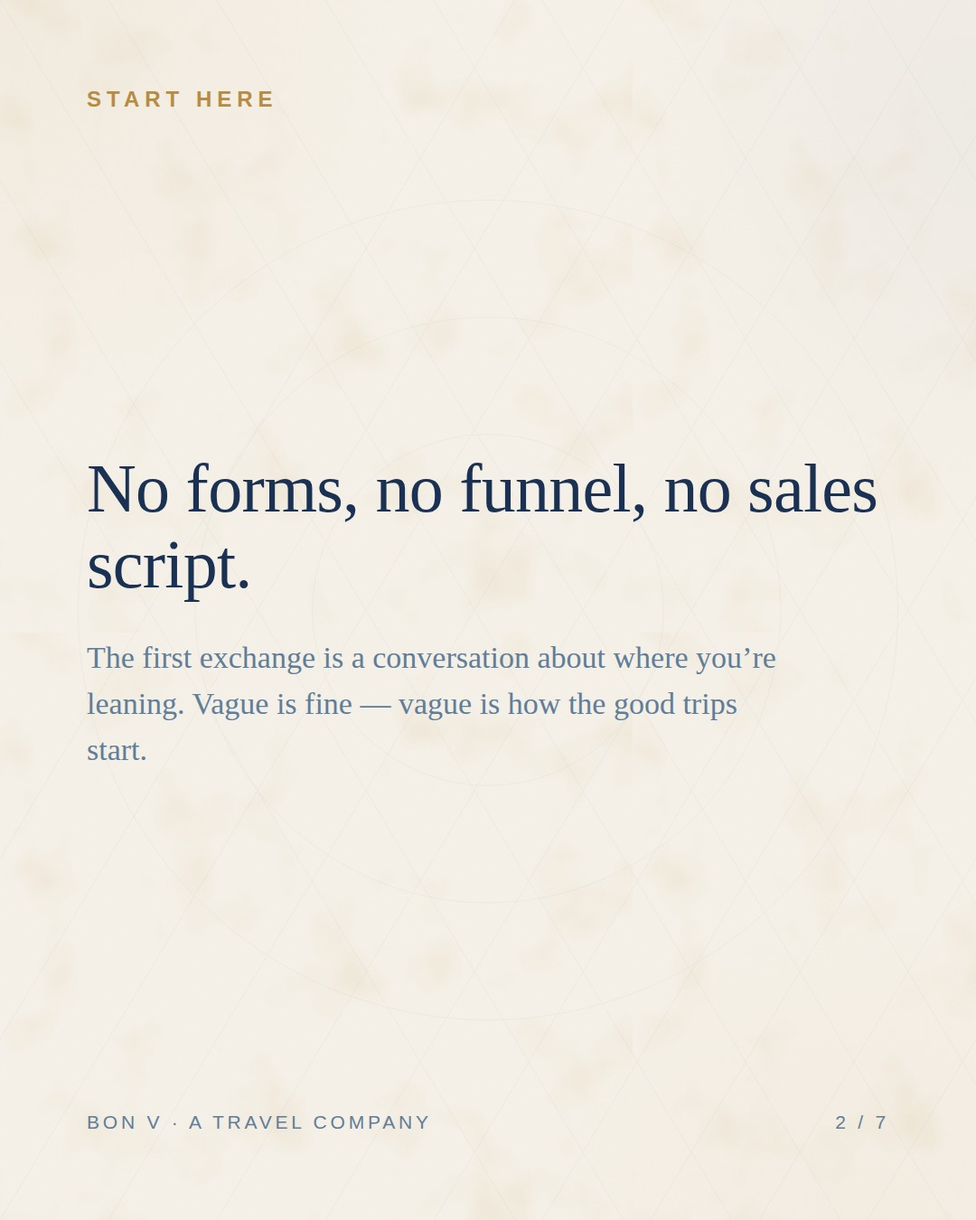
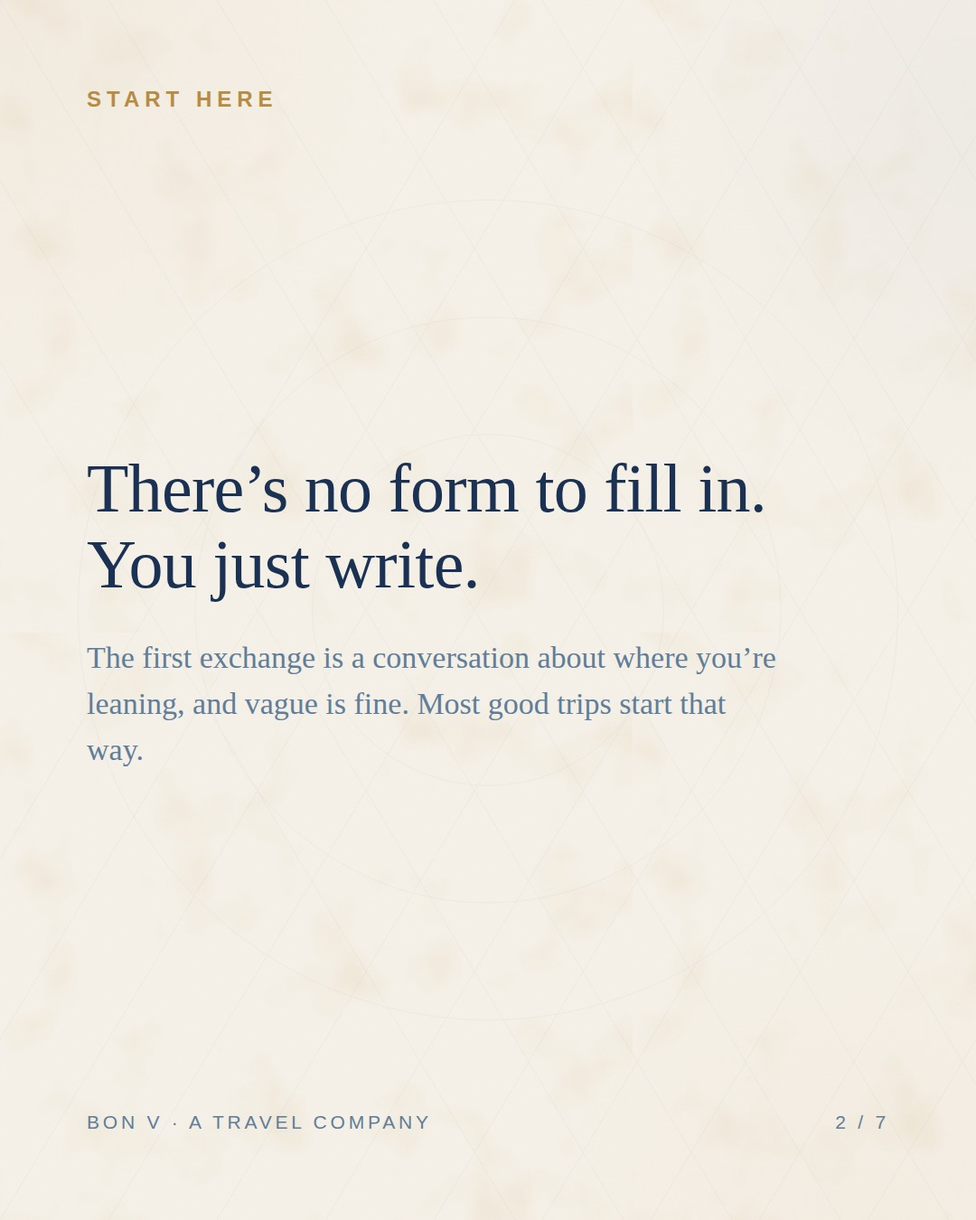
Rework the introduction series copy to read more naturally
Vary the piled-up parallelisms and rules of three across the three
intro decks, thin out the em-dash density toward the site's own
frequency, and re-render all 21 slides. Facts unchanged.

Claude-Session: https://claude.ai/code/session_014KXcvpY2rbbLp147SKyKqA

Changed region(s): [[0.0917, 0.3733, 0.9167, 0.4978], [0.1833, 0.56, 0.7639, 0.5911], [0.0917, 0.5911, 0.1528, 0.6222]]

diff --git a/content/instagram/posts/2026-08-26-what-to-expect-from-me/slides/_preview.html b/content/instagram/posts/2026-08-26-what-to-expect-from-me/slides/_preview.html
@@ -70,7 +70,7 @@
       <div class="kicker">The Advisor's Edit</div>
       <div class="rule" style="margin:28px 0 44px"></div>
       <h1>What to expect when you write to me</h1>
-      <p class="lede" style="margin-top:40px;max-width:88%">The whole arrangement, from first note to flight home — and the parts people don’t expect.</p>
+      <p class="lede" style="margin-top:40px;max-width:88%">How the arrangement works, from your first note to the flight home.</p>
       <div class="spacer"></div>
       <div class="stamp layer"><div class="stamp-in"><div class="stamp-a">Introductions</div><div class="stamp-b">No. II</div></div></div>
       <div class="foot"><span>BON V · A Travel Company</span><span class="index">1 / 7</span></div></div></body></html>
@@ -146,8 +146,8 @@
 </style></head><body><div class="stage"><svg class="chart layer" width="1080" height="1350" viewBox="0 0 1080 1350" xmlns="http://www.w3.org/2000/svg"><line x1="-240" y1="0" x2="570" y2="1350" stroke="#607d99" stroke-width="1"/><line x1="-240" y1="1350" x2="570" y2="0" stroke="#607d99" stroke-width="1"/><line x1="-120" y1="0" x2="690" y2="1350" stroke="#607d99" stroke-width="1"/><line x1="-120" y1="1350" x2="690" y2="0" stroke="#607d99" stroke-width="1"/><line x1="0" y1="0" x2="810" y2="1350" stroke="#607d99" stroke-width="1"/><line x1="0" y1="1350" x2="810" y2="0" stroke="#607d99" stroke-width="1"/><line x1="120" y1="0" x2="930" y2="1350" stroke="#607d99" stroke-width="1"/><line x1="120" y1="1350" x2="930" y2="0" stroke="#607d99" stroke-width="1"/><line x1="240" y1="0" x2="1050" y2="1350" stroke="#607d99" stroke-width="1"/><line x1="240" y1="1350" x2="1050" y2="0" stroke="#607d99" stroke-width="1"/><line x1="360" y1="0" x2="1170" y2="1350" stroke="#607d99" stroke-width="1"/><line x1="360" y1="1350" x2="1170" y2="0" stroke="#607d99" stroke-width="1"/><line x1="480" y1="0" x2="1290" y2="1350" stroke="#607d99" stroke-width="1"/><line x1="480" y1="1350" x2="1290" y2="0" stroke="#607d99" stroke-width="1"/><line x1="600" y1="0" x2="1410" y2="1350" stroke="#607d99" stroke-width="1"/><line x1="600" y1="1350" x2="1410" y2="0" stroke="#607d99" stroke-width="1"/><line x1="720" y1="0" x2="1530" y2="1350" stroke="#607d99" stroke-width="1"/><line x1="720" y1="1350" x2="1530" y2="0" stroke="#607d99" stroke-width="1"/><line x1="840" y1="0" x2="1650" y2="1350" stroke="#607d99" stroke-width="1"/><line x1="840" y1="1350" x2="1650" y2="0" stroke="#607d99" stroke-width="1"/><line x1="960" y1="0" x2="1770" y2="1350" stroke="#607d99" stroke-width="1"/><line x1="960" y1="1350" x2="1770" y2="0" stroke="#607d99" stroke-width="1"/><line x1="1080" y1="0" x2="1890" y2="1350" stroke="#607d99" stroke-width="1"/><line x1="1080" y1="1350" x2="1890" y2="0" stroke="#607d99" stroke-width="1"/><line x1="1200" y1="0" x2="2010" y2="1350" stroke="#607d99" stroke-width="1"/><line x1="1200" y1="1350" x2="2010" y2="0" stroke="#607d99" stroke-width="1"/><line x1="1320" y1="0" x2="2130" y2="1350" stroke="#607d99" stroke-width="1"/><line x1="1320" y1="1350" x2="2130" y2="0" stroke="#607d99" stroke-width="1"/><line x1="1440" y1="0" x2="2250" y2="1350" stroke="#607d99" stroke-width="1"/><line x1="1440" y1="1350" x2="2250" y2="0" stroke="#607d99" stroke-width="1"/><line x1="1560" y1="0" x2="2370" y2="1350" stroke="#607d99" stroke-width="1"/><line x1="1560" y1="1350" x2="2370" y2="0" stroke="#607d99" stroke-width="1"/><circle cx="540" cy="675" r="194.4" fill="none" stroke="#607d99" stroke-width="1"/><circle cx="540" cy="675" r="324" fill="none" stroke="#607d99" stroke-width="1"/><circle cx="540" cy="675" r="453.59999999999997" fill="none" stroke="#607d99" stroke-width="1"/></svg>
       <div class="kicker">Start here</div>
       <div class="spacer"></div>
-      <h2>No forms, no funnel, no sales script.</h2>
-      <p class="body muted" style="margin-top:36px;max-width:86%">The first exchange is a conversation about where you’re leaning. Vague is fine — vague is how the good trips start.</p>
+      <h2>There’s no form to fill in. You just write.</h2>
+      <p class="body muted" style="margin-top:36px;max-width:86%">The first exchange is a conversation about where you’re leaning, and vague is fine. Most good trips start that way.</p>
       <div class="spacer"></div>
       <div class="foot"><span>BON V · A Travel Company</span><span class="index">2 / 7</span></div></div></body></html>
 <hr>
@@ -231,16 +231,16 @@
       <div>
         <div class="item">
             <div class="num">01</div>
-            <div><div class="head">You write</div><div class="sub">A region, a month, an occasion, a ship you half remember. That’s plenty to start with.</div></div>
+            <div><div class="head">You write</div><div class="sub">A region, a month, an anniversary you want to do properly. That’s plenty.</div></div>
           </div><div class="item">
             <div class="num">02</div>
-            <div><div class="head">I edit</div><div class="sub">A hundred possible sailings down to three worth your time, with a reason attached to each.</div></div>
+            <div><div class="head">I edit</div><div class="sub">Any search engine can find a hundred sailings. I’ll send you the three I’d actually book, and why.</div></div>
           </div><div class="item">
             <div class="num">03</div>
-            <div><div class="head">We settle it</div><div class="sub">Ship, cabin, deck, dining, the negotiated fare. You decide; I handle every booking detail.</div></div>
+            <div><div class="head">We settle it</div><div class="sub">Ship, cabin, dining time, the fare. You make the calls and I do the paperwork.</div></div>
           </div><div class="item">
             <div class="num">04</div>
-            <div><div class="head">I stay on it</div><div class="sub">The fare watched until you sail, the papers checked, and a person who answers if plans wobble.</div></div>
+            <div><div class="head">I stay on it</div><div class="sub">I keep watching the fare after you book, and if something goes sideways mid-trip you call me.</div></div>
           </div>
       </div>
       <div class="spacer"></div>
@@ -331,7 +331,7 @@
       <div class="rule" style="margin:34px 0 50px"></div>
       <div class="cols">
         <div class="col col-a"><div class="col-label">Not this</div><ul><li>A questionnaire</li><li>A hundred options</li><li>A marked-up fare</li><li>A rotating cast</li></ul></div>
-        <div class="col col-b"><div class="col-label">Expect this</div><ul><li>A conversation</li><li>Three worth your time</li><li>The fare, negotiated</li><li>One name, start to home</li></ul></div>
+        <div class="col col-b"><div class="col-label">Expect this</div><ul><li>A conversation</li><li>Three good options</li><li>A fare I negotiated</li><li>Me, the whole way</li></ul></div>
       </div>
       <div class="spacer"></div>
       <div class="foot"><span>BON V · A Travel Company</span><span class="index">4 / 7</span></div></div></body></html>
@@ -405,10 +405,10 @@
   .stamp-b { font-family:'Liberation Sans', 'DejaVu Sans', Helvetica, Arial, sans-serif; font-size:24px; letter-spacing:0.2em; text-transform:uppercase; color:#a97f39; white-space:nowrap; margin-top:3px; }
   
 </style></head><body><div class="stage"><svg class="chart layer" width="1080" height="1350" viewBox="0 0 1080 1350" xmlns="http://www.w3.org/2000/svg"><line x1="-240" y1="0" x2="570" y2="1350" stroke="#607d99" stroke-width="1"/><line x1="-240" y1="1350" x2="570" y2="0" stroke="#607d99" stroke-width="1"/><line x1="-120" y1="0" x2="690" y2="1350" stroke="#607d99" stroke-width="1"/><line x1="-120" y1="1350" x2="690" y2="0" stroke="#607d99" stroke-width="1"/><line x1="0" y1="0" x2="810" y2="1350" stroke="#607d99" stroke-width="1"/><line x1="0" y1="1350" x2="810" y2="0" stroke="#607d99" stroke-width="1"/><line x1="120" y1="0" x2="930" y2="1350" stroke="#607d99" stroke-width="1"/><line x1="120" y1="1350" x2="930" y2="0" stroke="#607d99" stroke-width="1"/><line x1="240" y1="0" x2="1050" y2="1350" stroke="#607d99" stroke-width="1"/><line x1="240" y1="1350" x2="1050" y2="0" stroke="#607d99" stroke-width="1"/><line x1="360" y1="0" x2="1170" y2="1350" stroke="#607d99" stroke-width="1"/><line x1="360" y1="1350" x2="1170" y2="0" stroke="#607d99" stroke-width="1"/><line x1="480" y1="0" x2="1290" y2="1350" stroke="#607d99" stroke-width="1"/><line x1="480" y1="1350" x2="1290" y2="0" stroke="#607d99" stroke-width="1"/><line x1="600" y1="0" x2="1410" y2="1350" stroke="#607d99" stroke-width="1"/><line x1="600" y1="1350" x2="1410" y2="0" stroke="#607d99" stroke-width="1"/><line x1="720" y1="0" x2="1530" y2="1350" stroke="#607d99" stroke-width="1"/><line x1="720" y1="1350" x2="1530" y2="0" stroke="#607d99" stroke-width="1"/><line x1="840" y1="0" x2="1650" y2="1350" stroke="#607d99" stroke-width="1"/><line x1="840" y1="1350" x2="1650" y2="0" stroke="#607d99" stroke-width="1"/><line x1="960" y1="0" x2="1770" y2="1350" stroke="#607d99" stroke-width="1"/><line x1="960" y1="1350" x2="1770" y2="0" stroke="#607d99" stroke-width="1"/><line x1="1080" y1="0" x2="1890" y2="1350" stroke="#607d99" stroke-width="1"/><line x1="1080" y1="1350" x2="1890" y2="0" stroke="#607d99" stroke-width="1"/><line x1="1200" y1="0" x2="2010" y2="1350" stroke="#607d99" stroke-width="1"/><line x1="1200" y1="1350" x2="2010" y2="0" stroke="#607d99" stroke-width="1"/><line x1="1320" y1="0" x2="2130" y2="1350" stroke="#607d99" stroke-width="1"/><line x1="1320" y1="1350" x2="2130" y2="0" stroke="#607d99" stroke-width="1"/><line x1="1440" y1="0" x2="2250" y2="1350" stroke="#607d99" stroke-width="1"/><line x1="1440" y1="1350" x2="2250" y2="0" stroke="#607d99" stroke-width="1"/><line x1="1560" y1="0" x2="2370" y2="1350" stroke="#607d99" stroke-width="1"/><line x1="1560" y1="1350" x2="2370" y2="0" stroke="#607d99" stroke-width="1"/><circle cx="540" cy="675" r="194.4" fill="none" stroke="#607d99" stroke-width="1"/><circle cx="540" cy="675" r="324" fill="none" stroke="#607d99" stroke-width="1"/><circle cx="540" cy="675" r="453.59999999999997" fill="none" stroke="#607d99" stroke-width="1"/></svg>
-      <div class="kicker">The habit</div>
+      <div class="kicker">Fair warning</div>
       <div class="spacer"></div>
-      <h2>Expect candour before commerce.</h2>
-      <p class="body muted" style="margin-top:36px;max-width:86%">If a celebrated sailing is wrong for you, I’ll say so before we ever speak about fares — that is most of the job.</p>
+      <h2>If a celebrated itinerary is wrong for you, I’ll say so.</h2>
+      <p class="body muted" style="margin-top:36px;max-width:86%">Talking someone out of the wrong ship is half the job. The fare conversation only starts once the ship is right.</p>
       <div class="spacer"></div>
       <div class="foot"><span>BON V · A Travel Company</span><span class="index">5 / 7</span></div></div></body></html>
 <hr>
@@ -487,7 +487,7 @@
 </style></head><body><div class="stage"><svg class="chart layer" width="1080" height="1350" viewBox="0 0 1080 1350" xmlns="http://www.w3.org/2000/svg"><line x1="-240" y1="0" x2="570" y2="1350" stroke="#607d99" stroke-width="1"/><line x1="-240" y1="1350" x2="570" y2="0" stroke="#607d99" stroke-width="1"/><line x1="-120" y1="0" x2="690" y2="1350" stroke="#607d99" stroke-width="1"/><line x1="-120" y1="1350" x2="690" y2="0" stroke="#607d99" stroke-width="1"/><line x1="0" y1="0" x2="810" y2="1350" stroke="#607d99" stroke-width="1"/><line x1="0" y1="1350" x2="810" y2="0" stroke="#607d99" stroke-width="1"/><line x1="120" y1="0" x2="930" y2="1350" stroke="#607d99" stroke-width="1"/><line x1="120" y1="1350" x2="930" y2="0" stroke="#607d99" stroke-width="1"/><line x1="240" y1="0" x2="1050" y2="1350" stroke="#607d99" stroke-width="1"/><line x1="240" y1="1350" x2="1050" y2="0" stroke="#607d99" stroke-width="1"/><line x1="360" y1="0" x2="1170" y2="1350" stroke="#607d99" stroke-width="1"/><line x1="360" y1="1350" x2="1170" y2="0" stroke="#607d99" stroke-width="1"/><line x1="480" y1="0" x2="1290" y2="1350" stroke="#607d99" stroke-width="1"/><line x1="480" y1="1350" x2="1290" y2="0" stroke="#607d99" stroke-width="1"/><line x1="600" y1="0" x2="1410" y2="1350" stroke="#607d99" stroke-width="1"/><line x1="600" y1="1350" x2="1410" y2="0" stroke="#607d99" stroke-width="1"/><line x1="720" y1="0" x2="1530" y2="1350" stroke="#607d99" stroke-width="1"/><line x1="720" y1="1350" x2="1530" y2="0" stroke="#607d99" stroke-width="1"/><line x1="840" y1="0" x2="1650" y2="1350" stroke="#607d99" stroke-width="1"/><line x1="840" y1="1350" x2="1650" y2="0" stroke="#607d99" stroke-width="1"/><line x1="960" y1="0" x2="1770" y2="1350" stroke="#607d99" stroke-width="1"/><line x1="960" y1="1350" x2="1770" y2="0" stroke="#607d99" stroke-width="1"/><line x1="1080" y1="0" x2="1890" y2="1350" stroke="#607d99" stroke-width="1"/><line x1="1080" y1="1350" x2="1890" y2="0" stroke="#607d99" stroke-width="1"/><line x1="1200" y1="0" x2="2010" y2="1350" stroke="#607d99" stroke-width="1"/><line x1="1200" y1="1350" x2="2010" y2="0" stroke="#607d99" stroke-width="1"/><line x1="1320" y1="0" x2="2130" y2="1350" stroke="#607d99" stroke-width="1"/><line x1="1320" y1="1350" x2="2130" y2="0" stroke="#607d99" stroke-width="1"/><line x1="1440" y1="0" x2="2250" y2="1350" stroke="#607d99" stroke-width="1"/><line x1="1440" y1="1350" x2="2250" y2="0" stroke="#607d99" stroke-width="1"/><line x1="1560" y1="0" x2="2370" y2="1350" stroke="#607d99" stroke-width="1"/><line x1="1560" y1="1350" x2="2370" y2="0" stroke="#607d99" stroke-width="1"/><circle cx="540" cy="675" r="194.4" fill="none" stroke="#607d99" stroke-width="1"/><circle cx="540" cy="675" r="324" fill="none" stroke="#607d99" stroke-width="1"/><circle cx="540" cy="675" r="453.59999999999997" fill="none" stroke="#607d99" stroke-width="1"/></svg>
       <div class="spacer"></div>
       <div class="mark">&ldquo;</div>
-      <div class="q">The line pays me after you sail. Your fare is the same or better — and my services are complimentary.</div>
+      <div class="q">The line pays me after you sail. Your fare is the same or better, and my services are complimentary.</div>
       <div class="cite">Jordan Yates · Luxury Voyage Advisor</div>
       <div class="spacer"></div>
       <div class="foot"><span>BON V · A Travel Company</span><span class="index">6 / 7</span></div></div></body></html>
@@ -566,7 +566,7 @@
       <div class="kicker">One ask</div>
       <div class="spacer"></div>
       <h2 style="font-size:66px">Send this to the person you’d sail with</h2>
-      <p class="lede" style="margin-top:36px;max-width:90%">Most voyages begin as a conversation between two people. When yours does, this is what writing to me starts.</p>
+      <p class="lede" style="margin-top:36px;max-width:90%">Most trips start as a conversation between two people. When yours does, you know where I am.</p>
       <div class="handle">@bonvtravel · link in bio</div>
       <div class="spacer"></div>
       <div class="rule-wide" style="margin-bottom:30px"></div>

diff --git a/content/instagram/posts/2026-08-27-fifteen-years-of-kept-notes/slides/_preview.html b/content/instagram/posts/2026-08-27-fifteen-years-of-kept-notes/slides/_preview.html
@@ -70,7 +70,7 @@
       <div class="kicker">The Advisor's Edit</div>
       <div class="rule" style="margin:28px 0 44px"></div>
       <h1>Fifteen years of kept notes</h1>
-      <p class="lede" style="margin-top:40px;max-width:88%">Why every sailing since 2011 is written down — and what the record does for yours.</p>
+      <p class="lede" style="margin-top:40px;max-width:88%">I’ve written down every sailing since 2011. This is what the record does for yours.</p>
       <div class="spacer"></div>
       <div class="stamp layer"><div class="stamp-in"><div class="stamp-a">Introductions</div><div class="stamp-b">No. III</div></div></div>
       <div class="foot"><span>BON V · A Travel Company</span><span class="index">1 / 7</span></div></div></body></html>
@@ -147,7 +147,7 @@
       <div class="kicker">The method</div>
       <div class="spacer"></div>
       <h2>Memory flatters. The notebook doesn’t.</h2>
-      <p class="body muted" style="margin-top:36px;max-width:86%">Sailings, ship visits and port days since 2011, written down at the time — not remembered fondly later.</p>
+      <p class="body muted" style="margin-top:36px;max-width:86%">Every sailing and ship visit since 2011 went into the notes the same day, before hindsight could tidy it up.</p>
       <div class="spacer"></div>
       <div class="foot"><span>BON V · A Travel Company</span><span class="index">2 / 7</span></div></div></body></html>
 <hr>
@@ -231,13 +231,13 @@
       <div>
         <div class="item">
             <div class="num">01</div>
-            <div><div class="head">Ships, walked</div><div class="sub">Which decks carry noise, which cabins sit beneath the pool deck, which suites earn their fare.</div></div>
+            <div><div class="head">The ships</div><div class="sub">Where the noise travels, which cabins sit under the pool deck, and which suites are worth it.</div></div>
           </div><div class="item">
             <div class="num">02</div>
-            <div><div class="head">Ports, timed</div><div class="sub">How long the tender really takes, when the crowds land, when the light is worth the detour.</div></div>
+            <div><div class="head">The ports</div><div class="sub">How long the tender actually takes, and what time the crowds turn up.</div></div>
           </div><div class="item">
             <div class="num">03</div>
-            <div><div class="head">Fares, tracked</div><div class="sub">What a sailing was published at, what it quietly dropped to, and when in the year that happens.</div></div>
+            <div><div class="head">The fares</div><div class="sub">What a sailing listed at, what it later sold for, and roughly when in the year the drop comes.</div></div>
           </div>
       </div>
       <div class="spacer"></div>
@@ -431,7 +431,7 @@
       <div class="kicker">In practice</div>
       <h2 style="font-size:58px;margin-top:24px">What the record decides</h2>
       <div class="rule" style="margin:34px 0 40px"></div>
-      <div><div class="row"><div class="coord">The ship</div><div class="val">Chosen against its sisters and its refit date, not its brochure.</div></div><div class="row"><div class="coord">The cabin</div><div class="val">Picked off the deck plan, not the category name.</div></div><div class="row"><div class="coord">The season</div><div class="val">Booked for light and crowds, not the headline fare.</div></div><div class="row"><div class="coord">The fare</div><div class="val">Negotiated against what it actually sells for, not what it lists at.</div></div></div>
+      <div><div class="row"><div class="coord">The ship</div><div class="val">I compare it with its sister ships and check when it was last refitted.</div></div><div class="row"><div class="coord">The cabin</div><div class="val">Picked off the deck plan, down to what’s above and below it.</div></div><div class="row"><div class="coord">The season</div><div class="val">Timed for the light and for how many other ships will be in port that day.</div></div><div class="row"><div class="coord">The fare</div><div class="val">Negotiated from what sailings like it have actually sold for.</div></div></div>
       <div class="spacer"></div>
       <div class="foot"><span>BON V · A Travel Company</span><span class="index">5 / 7</span></div></div></body></html>
 <hr>
@@ -506,8 +506,8 @@
 </style></head><body><div class="stage"><svg class="chart layer" width="1080" height="1350" viewBox="0 0 1080 1350" xmlns="http://www.w3.org/2000/svg"><line x1="-240" y1="0" x2="570" y2="1350" stroke="#607d99" stroke-width="1"/><line x1="-240" y1="1350" x2="570" y2="0" stroke="#607d99" stroke-width="1"/><line x1="-120" y1="0" x2="690" y2="1350" stroke="#607d99" stroke-width="1"/><line x1="-120" y1="1350" x2="690" y2="0" stroke="#607d99" stroke-width="1"/><line x1="0" y1="0" x2="810" y2="1350" stroke="#607d99" stroke-width="1"/><line x1="0" y1="1350" x2="810" y2="0" stroke="#607d99" stroke-width="1"/><line x1="120" y1="0" x2="930" y2="1350" stroke="#607d99" stroke-width="1"/><line x1="120" y1="1350" x2="930" y2="0" stroke="#607d99" stroke-width="1"/><line x1="240" y1="0" x2="1050" y2="1350" stroke="#607d99" stroke-width="1"/><line x1="240" y1="1350" x2="1050" y2="0" stroke="#607d99" stroke-width="1"/><line x1="360" y1="0" x2="1170" y2="1350" stroke="#607d99" stroke-width="1"/><line x1="360" y1="1350" x2="1170" y2="0" stroke="#607d99" stroke-width="1"/><line x1="480" y1="0" x2="1290" y2="1350" stroke="#607d99" stroke-width="1"/><line x1="480" y1="1350" x2="1290" y2="0" stroke="#607d99" stroke-width="1"/><line x1="600" y1="0" x2="1410" y2="1350" stroke="#607d99" stroke-width="1"/><line x1="600" y1="1350" x2="1410" y2="0" stroke="#607d99" stroke-width="1"/><line x1="720" y1="0" x2="1530" y2="1350" stroke="#607d99" stroke-width="1"/><line x1="720" y1="1350" x2="1530" y2="0" stroke="#607d99" stroke-width="1"/><line x1="840" y1="0" x2="1650" y2="1350" stroke="#607d99" stroke-width="1"/><line x1="840" y1="1350" x2="1650" y2="0" stroke="#607d99" stroke-width="1"/><line x1="960" y1="0" x2="1770" y2="1350" stroke="#607d99" stroke-width="1"/><line x1="960" y1="1350" x2="1770" y2="0" stroke="#607d99" stroke-width="1"/><line x1="1080" y1="0" x2="1890" y2="1350" stroke="#607d99" stroke-width="1"/><line x1="1080" y1="1350" x2="1890" y2="0" stroke="#607d99" stroke-width="1"/><line x1="1200" y1="0" x2="2010" y2="1350" stroke="#607d99" stroke-width="1"/><line x1="1200" y1="1350" x2="2010" y2="0" stroke="#607d99" stroke-width="1"/><line x1="1320" y1="0" x2="2130" y2="1350" stroke="#607d99" stroke-width="1"/><line x1="1320" y1="1350" x2="2130" y2="0" stroke="#607d99" stroke-width="1"/><line x1="1440" y1="0" x2="2250" y2="1350" stroke="#607d99" stroke-width="1"/><line x1="1440" y1="1350" x2="2250" y2="0" stroke="#607d99" stroke-width="1"/><line x1="1560" y1="0" x2="2370" y2="1350" stroke="#607d99" stroke-width="1"/><line x1="1560" y1="1350" x2="2370" y2="0" stroke="#607d99" stroke-width="1"/><circle cx="540" cy="675" r="194.4" fill="none" stroke="#607d99" stroke-width="1"/><circle cx="540" cy="675" r="324" fill="none" stroke="#607d99" stroke-width="1"/><circle cx="540" cy="675" r="453.59999999999997" fill="none" stroke="#607d99" stroke-width="1"/></svg>
       <div class="kicker">The point</div>
       <div class="spacer"></div>
-      <h2>Experience isn’t the years. It’s what you kept from them.</h2>
-      <p class="body muted" style="margin-top:36px;max-width:86%">Plenty of people have sailed for fifteen years. The difference is a written record — and one person reading it on your behalf.</p>
+      <h2>Plenty of people have sailed for fifteen years.</h2>
+      <p class="body muted" style="margin-top:36px;max-width:86%">Very few wrote any of it down. The notebook is what you get when you write to me.</p>
       <div class="spacer"></div>
       <div class="foot"><span>BON V · A Travel Company</span><span class="index">6 / 7</span></div></div></body></html>
 <hr>
@@ -585,7 +585,7 @@
       <div class="kicker">One ask</div>
       <div class="spacer"></div>
       <h2 style="font-size:66px">Name a sailing you’re weighing up</h2>
-      <p class="lede" style="margin-top:36px;max-width:90%">Send it in a DM — ship and month is enough. If the notebook has an opinion, you’ll get its two-line verdict, candid and free of charge.</p>
+      <p class="lede" style="margin-top:36px;max-width:90%">Ship and month is enough. Send it in a DM, and if the notebook has an opinion I’ll give you the two-line verdict at no charge.</p>
       <div class="handle">@bonvtravel · link in bio</div>
       <div class="spacer"></div>
       <div class="rule-wide" style="margin-bottom:30px"></div>

diff --git a/content/instagram/posts/2026-08-25-the-name-on-every-quote/slides/_preview.html b/content/instagram/posts/2026-08-25-the-name-on-every-quote/slides/_preview.html
@@ -181,7 +181,7 @@
       <div class="kicker">Who this is</div>
       <div class="spacer"></div>
       <h2>Behind BON V is one advisor, not an agency floor.</h2>
-      <p class="body muted" style="margin-top:36px;max-width:86%">One person, one file, and a direct line that gets answered — from your first note to the flight home.</p>
+      <p class="body muted" style="margin-top:36px;max-width:86%">You write to me, you book with me, and when something needs fixing mid-trip it’s still me. The number on the site rings at this desk.</p>
       <div class="spacer"></div>
       <div class="foot"><span>BON V · A Travel Company</span><span class="index">2 / 7</span></div></div></body></html>
 <hr>
@@ -265,13 +265,13 @@
       <div>
         <div class="item">
             <div class="num">01</div>
-            <div><div class="head">Cruise, only</div><div class="sub">Ocean, river and expedition — ships are the whole trade here, not a sideline of general travel.</div></div>
+            <div><div class="head">Cruise, only</div><div class="sub">Ocean, river and expedition. Ships are the whole business at this desk.</div></div>
           </div><div class="item">
             <div class="num">02</div>
-            <div><div class="head">A Virtuoso practice</div><div class="sub">In partnership with Luxury Cruise Connections — consortium access and negotiated fares.</div></div>
+            <div><div class="head">A Virtuoso practice</div><div class="sub">Run in partnership with Luxury Cruise Connections, which is where the negotiated fares come from.</div></div>
           </div><div class="item">
             <div class="num">03</div>
-            <div><div class="head">At this since 2011</div><div class="sub">Years of sailings, ship visits and kept notes, every one of them working on your shortlist.</div></div>
+            <div><div class="head">At this since 2011</div><div class="sub">Fifteen years of sailings, ship visits and kept notes. The notes matter most.</div></div>
           </div>
       </div>
       <div class="spacer"></div>
@@ -358,11 +358,11 @@
       .col-a li { color:#607d99; }
 </style></head><body><div class="stage"><svg class="chart layer" width="1080" height="1350" viewBox="0 0 1080 1350" xmlns="http://www.w3.org/2000/svg"><line x1="-240" y1="0" x2="570" y2="1350" stroke="#607d99" stroke-width="1"/><line x1="-240" y1="1350" x2="570" y2="0" stroke="#607d99" stroke-width="1"/><line x1="-120" y1="0" x2="690" y2="1350" stroke="#607d99" stroke-width="1"/><line x1="-120" y1="1350" x2="690" y2="0" stroke="#607d99" stroke-width="1"/><line x1="0" y1="0" x2="810" y2="1350" stroke="#607d99" stroke-width="1"/><line x1="0" y1="1350" x2="810" y2="0" stroke="#607d99" stroke-width="1"/><line x1="120" y1="0" x2="930" y2="1350" stroke="#607d99" stroke-width="1"/><line x1="120" y1="1350" x2="930" y2="0" stroke="#607d99" stroke-width="1"/><line x1="240" y1="0" x2="1050" y2="1350" stroke="#607d99" stroke-width="1"/><line x1="240" y1="1350" x2="1050" y2="0" stroke="#607d99" stroke-width="1"/><line x1="360" y1="0" x2="1170" y2="1350" stroke="#607d99" stroke-width="1"/><line x1="360" y1="1350" x2="1170" y2="0" stroke="#607d99" stroke-width="1"/><line x1="480" y1="0" x2="1290" y2="1350" stroke="#607d99" stroke-width="1"/><line x1="480" y1="1350" x2="1290" y2="0" stroke="#607d99" stroke-width="1"/><line x1="600" y1="0" x2="1410" y2="1350" stroke="#607d99" stroke-width="1"/><line x1="600" y1="1350" x2="1410" y2="0" stroke="#607d99" stroke-width="1"/><line x1="720" y1="0" x2="1530" y2="1350" stroke="#607d99" stroke-width="1"/><line x1="720" y1="1350" x2="1530" y2="0" stroke="#607d99" stroke-width="1"/><line x1="840" y1="0" x2="1650" y2="1350" stroke="#607d99" stroke-width="1"/><line x1="840" y1="1350" x2="1650" y2="0" stroke="#607d99" stroke-width="1"/><line x1="960" y1="0" x2="1770" y2="1350" stroke="#607d99" stroke-width="1"/><line x1="960" y1="1350" x2="1770" y2="0" stroke="#607d99" stroke-width="1"/><line x1="1080" y1="0" x2="1890" y2="1350" stroke="#607d99" stroke-width="1"/><line x1="1080" y1="1350" x2="1890" y2="0" stroke="#607d99" stroke-width="1"/><line x1="1200" y1="0" x2="2010" y2="1350" stroke="#607d99" stroke-width="1"/><line x1="1200" y1="1350" x2="2010" y2="0" stroke="#607d99" stroke-width="1"/><line x1="1320" y1="0" x2="2130" y2="1350" stroke="#607d99" stroke-width="1"/><line x1="1320" y1="1350" x2="2130" y2="0" stroke="#607d99" stroke-width="1"/><line x1="1440" y1="0" x2="2250" y2="1350" stroke="#607d99" stroke-width="1"/><line x1="1440" y1="1350" x2="2250" y2="0" stroke="#607d99" stroke-width="1"/><line x1="1560" y1="0" x2="2370" y2="1350" stroke="#607d99" stroke-width="1"/><line x1="1560" y1="1350" x2="2370" y2="0" stroke="#607d99" stroke-width="1"/><circle cx="540" cy="675" r="194.4" fill="none" stroke="#607d99" stroke-width="1"/><circle cx="540" cy="675" r="324" fill="none" stroke="#607d99" stroke-width="1"/><circle cx="540" cy="675" r="453.59999999999997" fill="none" stroke="#607d99" stroke-width="1"/></svg>
       <div class="kicker">Plainly</div>
-      <h2 style="font-size:58px;margin-top:24px">The job, as I hold it</h2>
+      <h2 style="font-size:58px;margin-top:24px">What the job actually is</h2>
       <div class="rule" style="margin:34px 0 50px"></div>
       <div class="cols">
         <div class="col col-a"><div class="col-label">Not</div><ul><li>A booking engine</li><li>A discount code</li><li>A brochure reader</li><li>A queue of agents</li></ul></div>
-        <div class="col col-b"><div class="col-label">Instead</div><ul><li>An editor of sailings</li><li>A negotiator of fares</li><li>A keeper of notes</li><li>The person who answers</li></ul></div>
+        <div class="col col-b"><div class="col-label">Instead</div><ul><li>I edit the options</li><li>I negotiate the fare</li><li>I keep the notes</li><li>I answer the phone</li></ul></div>
       </div>
       <div class="spacer"></div>
       <div class="foot"><span>BON V · A Travel Company</span><span class="index">4 / 7</span></div></div></body></html>
@@ -519,7 +519,7 @@
       <div class="kicker">The arrangement</div>
       <div class="spacer"></div>
       <h2>You bring the leaning. I come back with three worth your time.</h2>
-      <p class="body muted" style="margin-top:36px;max-width:86%">With each, the why — the ship, the season, the cabin, and a fare negotiated so you never pay retail.</p>
+      <p class="body muted" style="margin-top:36px;max-width:86%">Each one comes with the reason it made the cut and a fare I’ve negotiated myself. My clients never pay retail.</p>
       <div class="spacer"></div>
       <div class="foot"><span>BON V · A Travel Company</span><span class="index">6 / 7</span></div></div></body></html>
 <hr>
@@ -597,7 +597,7 @@
       <div class="kicker">Jordan Yates · Luxury Voyage Advisor</div>
       <div class="spacer"></div>
       <h2 style="font-size:66px">Tell me where you’re leaning</h2>
-      <p class="lede" style="margin-top:36px;max-width:90%">A region, a month, a ship you half remember — write or DM, and a shortlist follows. Candid, complimentary, signed with my name.</p>
+      <p class="lede" style="margin-top:36px;max-width:90%">A region, a month, even just a ship somebody mentioned at dinner. Write or send a DM and I’ll come back with a shortlist worth your time.</p>
       <div class="handle">@bonvtravel · link in bio</div>
       <div class="spacer"></div>
       <div class="rule-wide" style="margin-bottom:30px"></div>

diff --git a/content/instagram/posts/2026-08-25-the-name-on-every-quote/caption.md b/content/instagram/posts/2026-08-25-the-name-on-every-quote/caption.md
@@ -1,9 +1,9 @@
-The name on every quote that leaves this desk — and what fifteen years of ship visits are doing on your shortlist.
+The name on every quote that leaves this desk. I'm Jordan Yates, and I've been at this since 2011.
 
-I'm Jordan Yates, a luxury voyage advisor. Since 2011 I've been matching travellers with the right ships — ocean, river and expedition, from the Greek islands to the Danube — now as a Virtuoso practice in partnership with Luxury Cruise Connections.
+I'm a luxury voyage advisor: ocean, river and expedition cruising, from the Greek islands to the Danube, run as a Virtuoso practice in partnership with Luxury Cruise Connections.
 
-Most of what I do isn't booking travel — it's editing it. You bring the leaning; I come back with three sailings worth your time, each with the why attached. Candid, complimentary, signed with my name.
+Most of what I do isn't booking travel — it's editing it. You tell me where you're leaning and I come back with three sailings worth your time, along with the reasons. The advice is candid, the service is complimentary, and my name is on every quote.
 
-Tell me where you're leaning — the DMs are open.
+Tell me where you're leaning. The DMs are open.
 
 #traveladvisor #luxurycruise #cruiseplanning #bonvtravel

diff --git a/content/instagram/posts/2026-08-27-fifteen-years-of-kept-notes/caption.md b/content/instagram/posts/2026-08-27-fifteen-years-of-kept-notes/caption.md
@@ -1,9 +1,9 @@
-Memory flatters. The notebook doesn't — fifteen years of sailings, written down at the time.
+I've kept notes on every sailing since 2011. Memory flatters; the notebook doesn't.
 
-Every ship walked, every port timed, every fare tracked since 2011. Which cabins sit beneath the pool deck, when the Santorini tender queue actually thins, what a Mediterranean sailing was published at and what it quietly dropped to.
+Every ship walked, every port timed, every fare tracked. Where the noise travels on a given ship, what time the Santorini tender queue thins out, what a Mediterranean sailing listed at in spring and quietly sold for by autumn.
 
-You don't read the notebook — you get its verdict: a shortlist of three, with a reason attached to each, and a fare negotiated against what the sailing actually sells for.
+The notebook stays on my desk. What you get is its verdict: a shortlist of three, each with a reason, and a fare negotiated from what sailings like it actually sell for.
 
-Weighing one up? Name the ship and the month in a DM and I'll send back the notebook's two-line verdict.
+Weighing one up? Name the ship and the month in a DM and I'll send back the two-line verdict.
 
 #luxurycruising #cruisetravel #whentobook #bonvtravel

diff --git a/content/instagram/posts/2026-08-26-what-to-expect-from-me/caption.md b/content/instagram/posts/2026-08-26-what-to-expect-from-me/caption.md
@@ -1,8 +1,8 @@
-What actually happens when you write to a cruise advisor — no forms, no funnel, no sales script.
+What actually happens when you write to a cruise advisor. There's no form, and nobody reads you a script.
 
-The first exchange is a conversation about where you're leaning. A Mediterranean autumn, a Rhine Christmas-market sailing, an anniversary at sea — vague is fine; vague is how the good trips start.
+The first exchange is a conversation about where you're leaning. A Mediterranean autumn, a Rhine sailing over the Christmas markets, an anniversary at sea. Vague is fine; most good trips start that way.
 
-From there I edit: a hundred possible sailings down to three worth your time, a negotiated fare on each, and one name holding the file until you're home again. The line pays me after you sail — your fare is never marked up, and my services are complimentary.
+From there I edit a hundred possible sailings down to the three I'd actually book, negotiate the fare on each, and hold the file until you're home again. The line pays me after you sail, so my services are complimentary and your fare is never marked up.
 
 Send this to the person you'd sail with.
 
